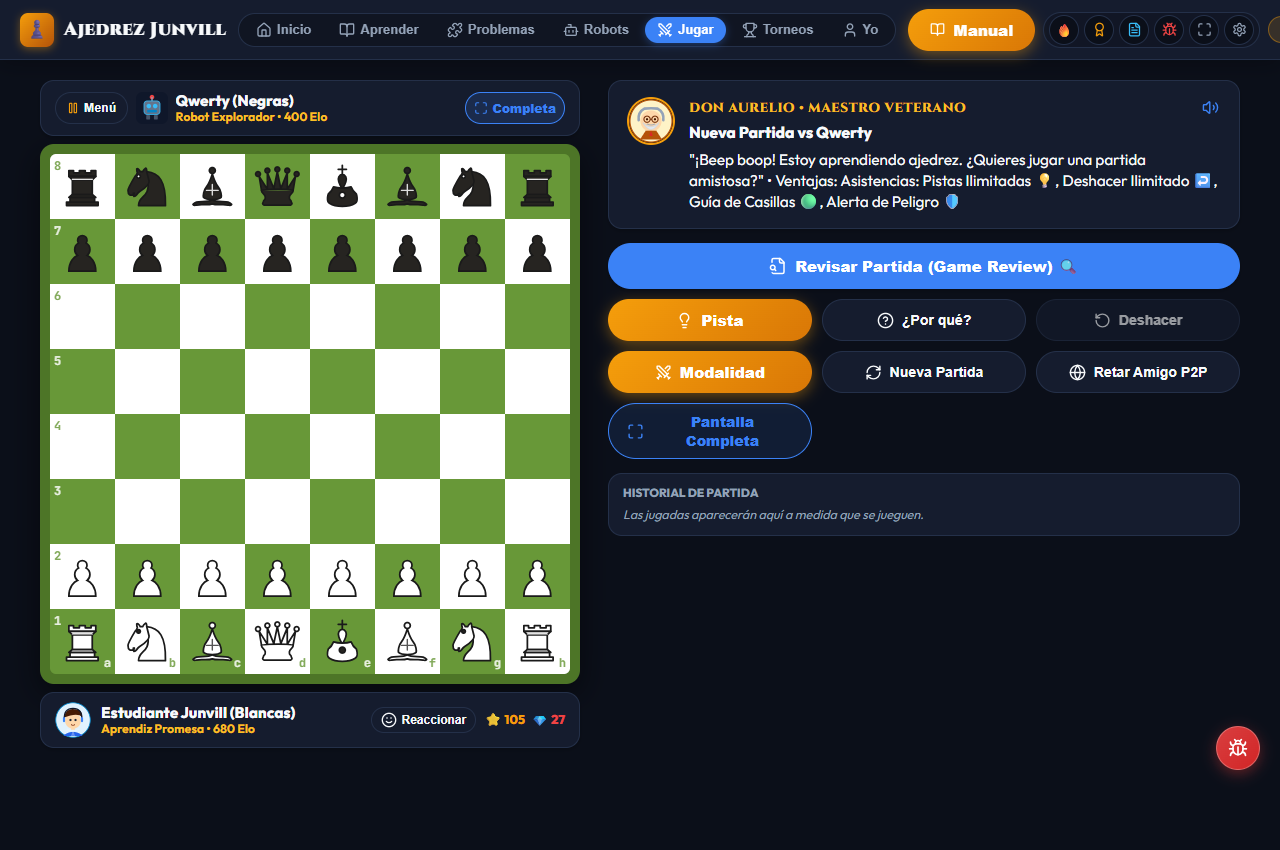
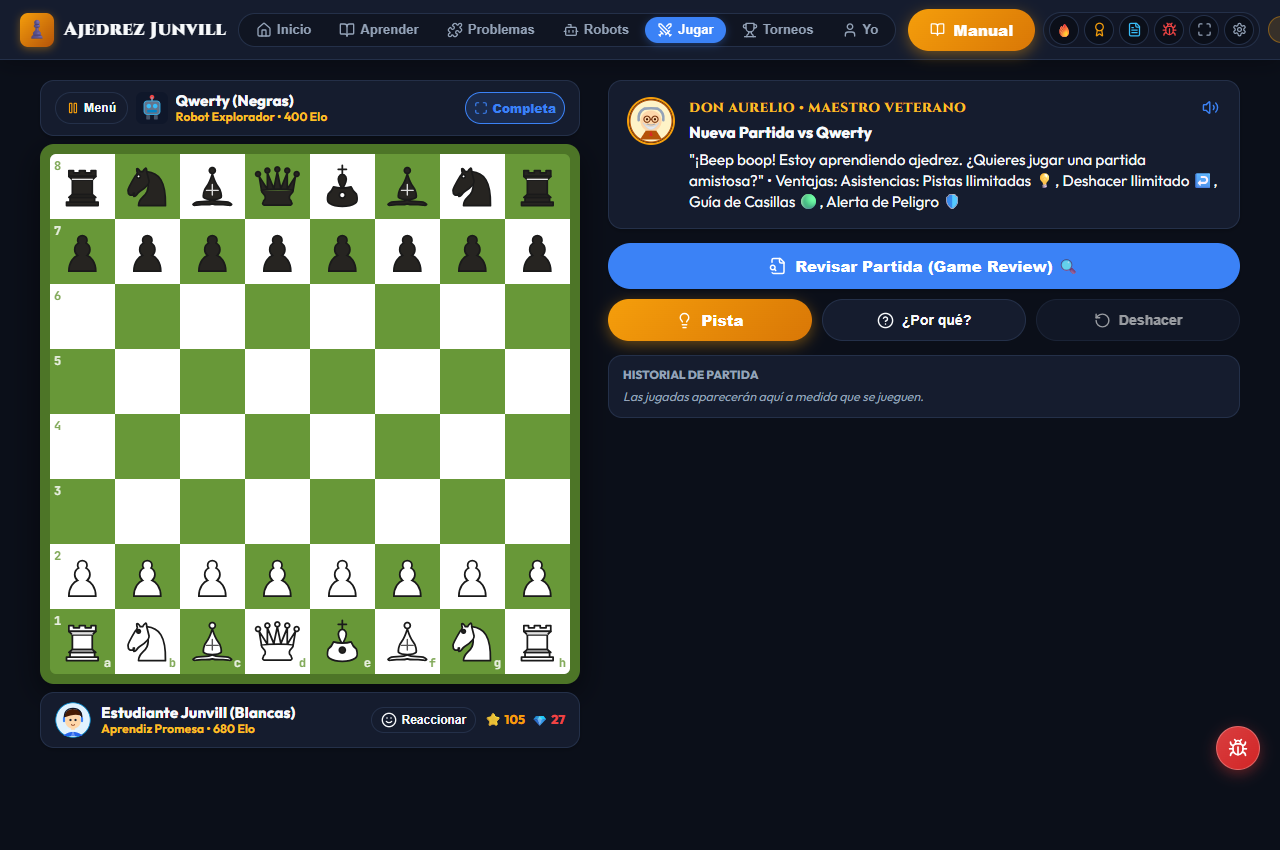
Limpiar botones redundantes en la barra lateral de juego para dejar solo ayudas pedagogicas

Changed region(s): [[0.4688, 0.3976, 0.7812, 0.6118], [0.8125, 0.4282, 0.9375, 0.4588]]

diff --git a/src/views/PlayView.jsx b/src/views/PlayView.jsx
@@ -1194,7 +1194,7 @@ export const PlayView = ({ activeBot = null, onOpenP2P, onOpenRobots, onExitToMe
           </div>
         )}
 
-        {/* Grid Ergonómico de Botones de Acción Táctiles (Prioridad Alta) */}
+        {/* Grid Ergonómico de Botones de Acción Táctiles (Tutor y Ayudas Pedagógicas) */}
         <div className="game-actions-grid">
           {/* Botón Principal de Revisión de Partida */}
           <button
@@ -1207,6 +1207,7 @@ export const PlayView = ({ activeBot = null, onOpenP2P, onOpenRobots, onExitToMe
             <span>Revisar Partida (Game Review) 🔍</span>
           </button>
 
+          {/* 1. Solicitar Pista Pedagógica */}
           <button
             className="btn-gold"
             onClick={handleRequestHint}
@@ -1224,16 +1225,19 @@ export const PlayView = ({ activeBot = null, onOpenP2P, onOpenRobots, onExitToMe
             </span>
           </button>
 
+          {/* 2. Preguntar ¿Por qué se jugó ese movimiento? */}
           <button
             className="btn-secondary"
             onClick={handleWhyMoveInquiry}
             disabled={!lastMove}
             style={{ justifyContent: 'center' }}
+            title="Explicación del Maestro sobre la jugada anterior"
           >
             <HelpCircle size={17} />
             <span>¿Por qué?</span>
           </button>
 
+          {/* 3. Deshacer Jugada */}
           <button
             className="btn-secondary"
             onClick={handleUndoMove}
@@ -1249,52 +1253,6 @@ export const PlayView = ({ activeBot = null, onOpenP2P, onOpenRobots, onExitToMe
                   ? `Deshacer (${remainingTakebacks})`
                   : 'Deshacer'}
             </span>
-          </button>
-
-          <button
-            className="btn-gold"
-            onClick={handleOpenModalidad}
-            title="Cambiar modalidad de juego"
-            style={{ justifyContent: 'center' }}
-          >
-            <Swords size={17} />
-            <span>Modalidad</span>
-          </button>
-
-          <button
-            className="btn-secondary"
-            onClick={handleRestartGame}
-            title="Nueva partida"
-            style={{ justifyContent: 'center' }}
-          >
-            <RefreshCw size={17} />
-            <span>Nueva Partida</span>
-          </button>
-
-          <button
-            onClick={onOpenP2P}
-            className="btn-secondary"
-            style={{ justifyContent: 'center' }}
-            title="Jugar online P2P contra un amigo"
-          >
-            <Globe size={17} />
-            <span>Retar Amigo P2P</span>
-          </button>
-
-          <button
-            onClick={toggleFullscreen}
-            className="btn-secondary"
-            style={{
-              justifyContent: 'center',
-              border: isFullscreen ? '1.5px solid #10b981' : '1.5px solid #3b82f6',
-              background: isFullscreen ? 'rgba(16, 185, 129, 0.12)' : 'rgba(59, 130, 246, 0.12)',
-              color: isFullscreen ? '#10b981' : '#3b82f6',
-              fontWeight: '800'
-            }}
-            title={isFullscreen ? "Salir de Pantalla Completa" : "Pantalla Completa (Ocultar Barra URL)"}
-          >
-            {isFullscreen ? <Minimize size={17} color="#10b981" /> : <Maximize size={17} color="#3b82f6" />}
-            <span>{isFullscreen ? 'Modo Normal' : 'Pantalla Completa'}</span>
           </button>
         </div>
 
